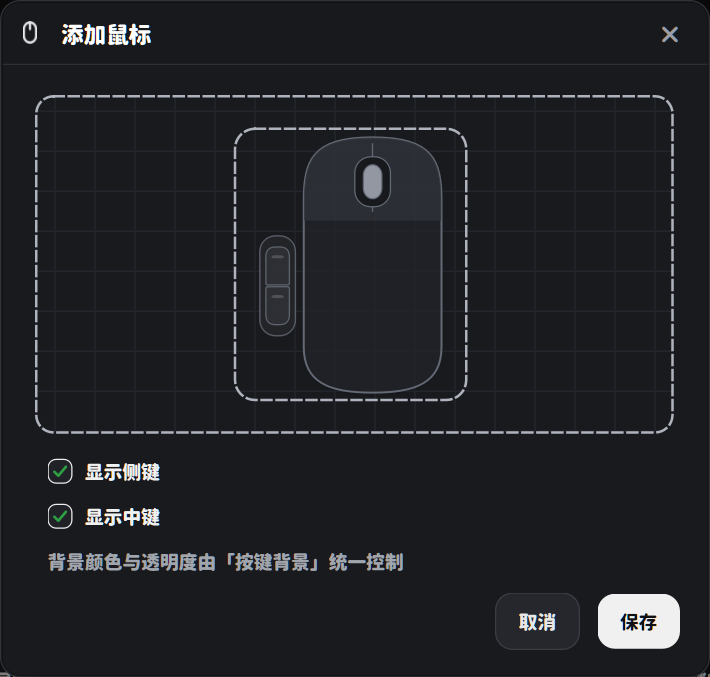
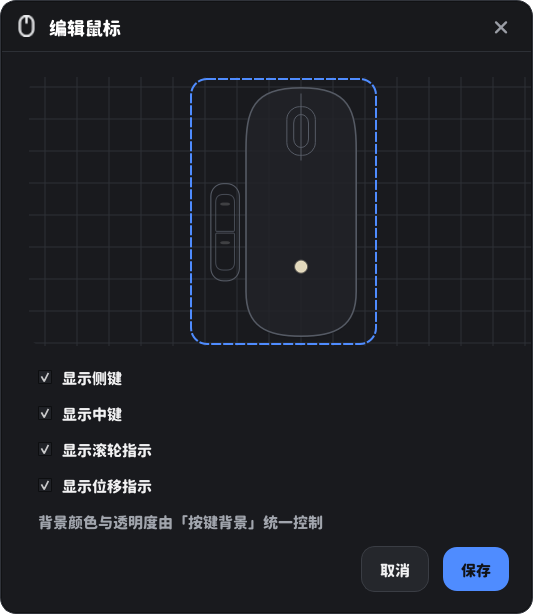
updated

diff --git a/assets/main.js b/assets/main.js
@@ -19,20 +19,20 @@ const VIDEO_PRESETS = {
 };
 
 const releaseFallback = {
-  version: "v1.0.01",
-  size: "48.2 MB",
-  date: "2026-09-29",
+  version: "v1.1.00",
+  size: "48.3 MB",
+  date: "2026-10-13",
   notes: `### Changelog
-**特性优化**
-- 优化中英文混排字体显示。
-- 优化预设列表显示、重命名体验和新建预设后的滚动定位。
-- 优化自动识别模式下的预览、只读锁定和设备切换。
-- 优化弹窗标题栏。
+**功能新增**
+- 新增深色、浅色、自动跟随系统三套主题。
+- 设置窗改为预览区铺满，使用 Dock 卡片管理覆盖层、个性化和应用。
+- 鼠标控件新增内置位移点，滚轮指示和位移指示可分别显示。
+- 新增开机自启动、启动时显示设置、启动时检查更新和关闭设置窗口时退出。
 
 **问题修复**
-- 修复文本描边重影和部分中英文混排问题。
-- 修复左右 Shift、Ctrl、Alt 无法识别的问题。
-- 修复 Win 键显示错误、控件高度异常和圆角不一致。`
+- 修复 ESC 录制、键帽自动配色和背景触发过渡等问题。
+- 修复卡片图标、主题下拉框、浅色模式配色和卡片展开避让问题。
+- 修复保存并应用按钮错位、鼠标移动控件未触发保存和右键菜单堆叠问题。`
 };
 
 function formatBytes(bytes) {
